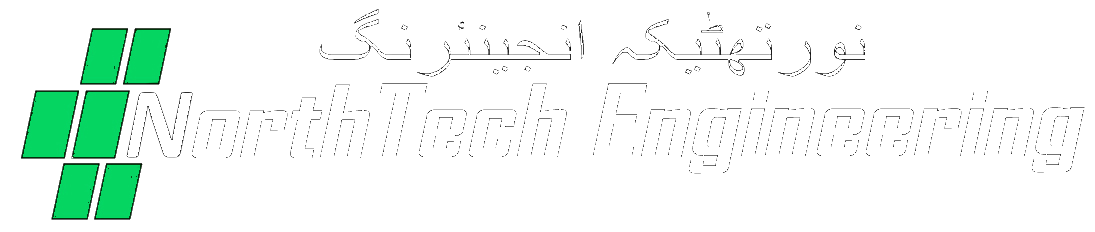
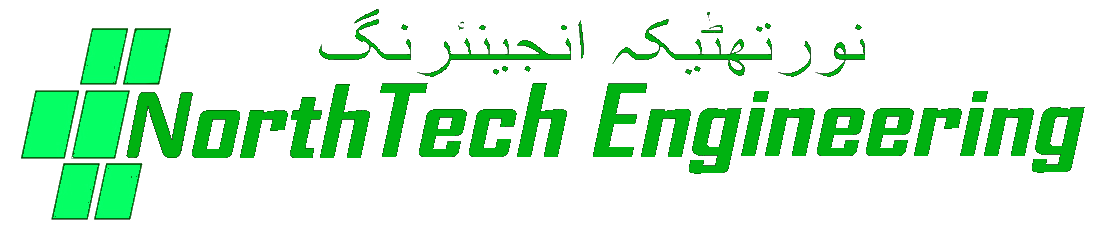
Color updates

diff --git a/dev/about.html b/dev/about.html
@@ -66,7 +66,7 @@
 	<div class="banner_bottom_w3ls_agile">
         <div class="banner_bottom_w3ls_info" style="text-align:justify">
 			<div style="text-align:center;">
-				<img src="images/NorthTech-Engineering-Black.png" style="width: 50%;"/>
+				<img src="images/NorthTech-Engineering.png" style="width: 50%;"/>
 			</div>
             <h2 class="agile_heading" style="text-align:center;font-size:2em;">Welcome to <span style="color: #05d561;">NorthTech Engineering</span></h2>
             <p>

diff --git a/dev/js/functions.js b/dev/js/functions.js
@@ -21,7 +21,7 @@ function navbar(page = "index")
             </button>
         <h1>
             <a class="navbar-brand" href="index.html">
-                <img style="background:rgba(255,255,255,0.2);padding:7px;border-radius:7px;" src="images/NorthTech-Engineering-Black.png">
+                <img style="background:;rgba(255,255,255,0.2);padding:7px;border-radius:7px;" src="images/NorthTech-Engineering.png">
             </a>
         </h1>
     </div>

diff --git a/dev/index.html b/dev/index.html
@@ -51,7 +51,7 @@
 
 		</nav>
 		<div class="s1">
-			<h3>Innovation <br>&middot;<br> Quality <br>&middot;<br> Reliability</h3>
+			<h3 style="color:#fff;">Innovation <br>&middot;<br> Quality <br>&middot;<br> Reliability</h3>
 			<div class="w3-button">
 				<div class="w3ls-button" style="float:none;">
                     <a href="products-and-services.html" class="hvr-shutter-out-vertical">Products &amp; Services</a>
